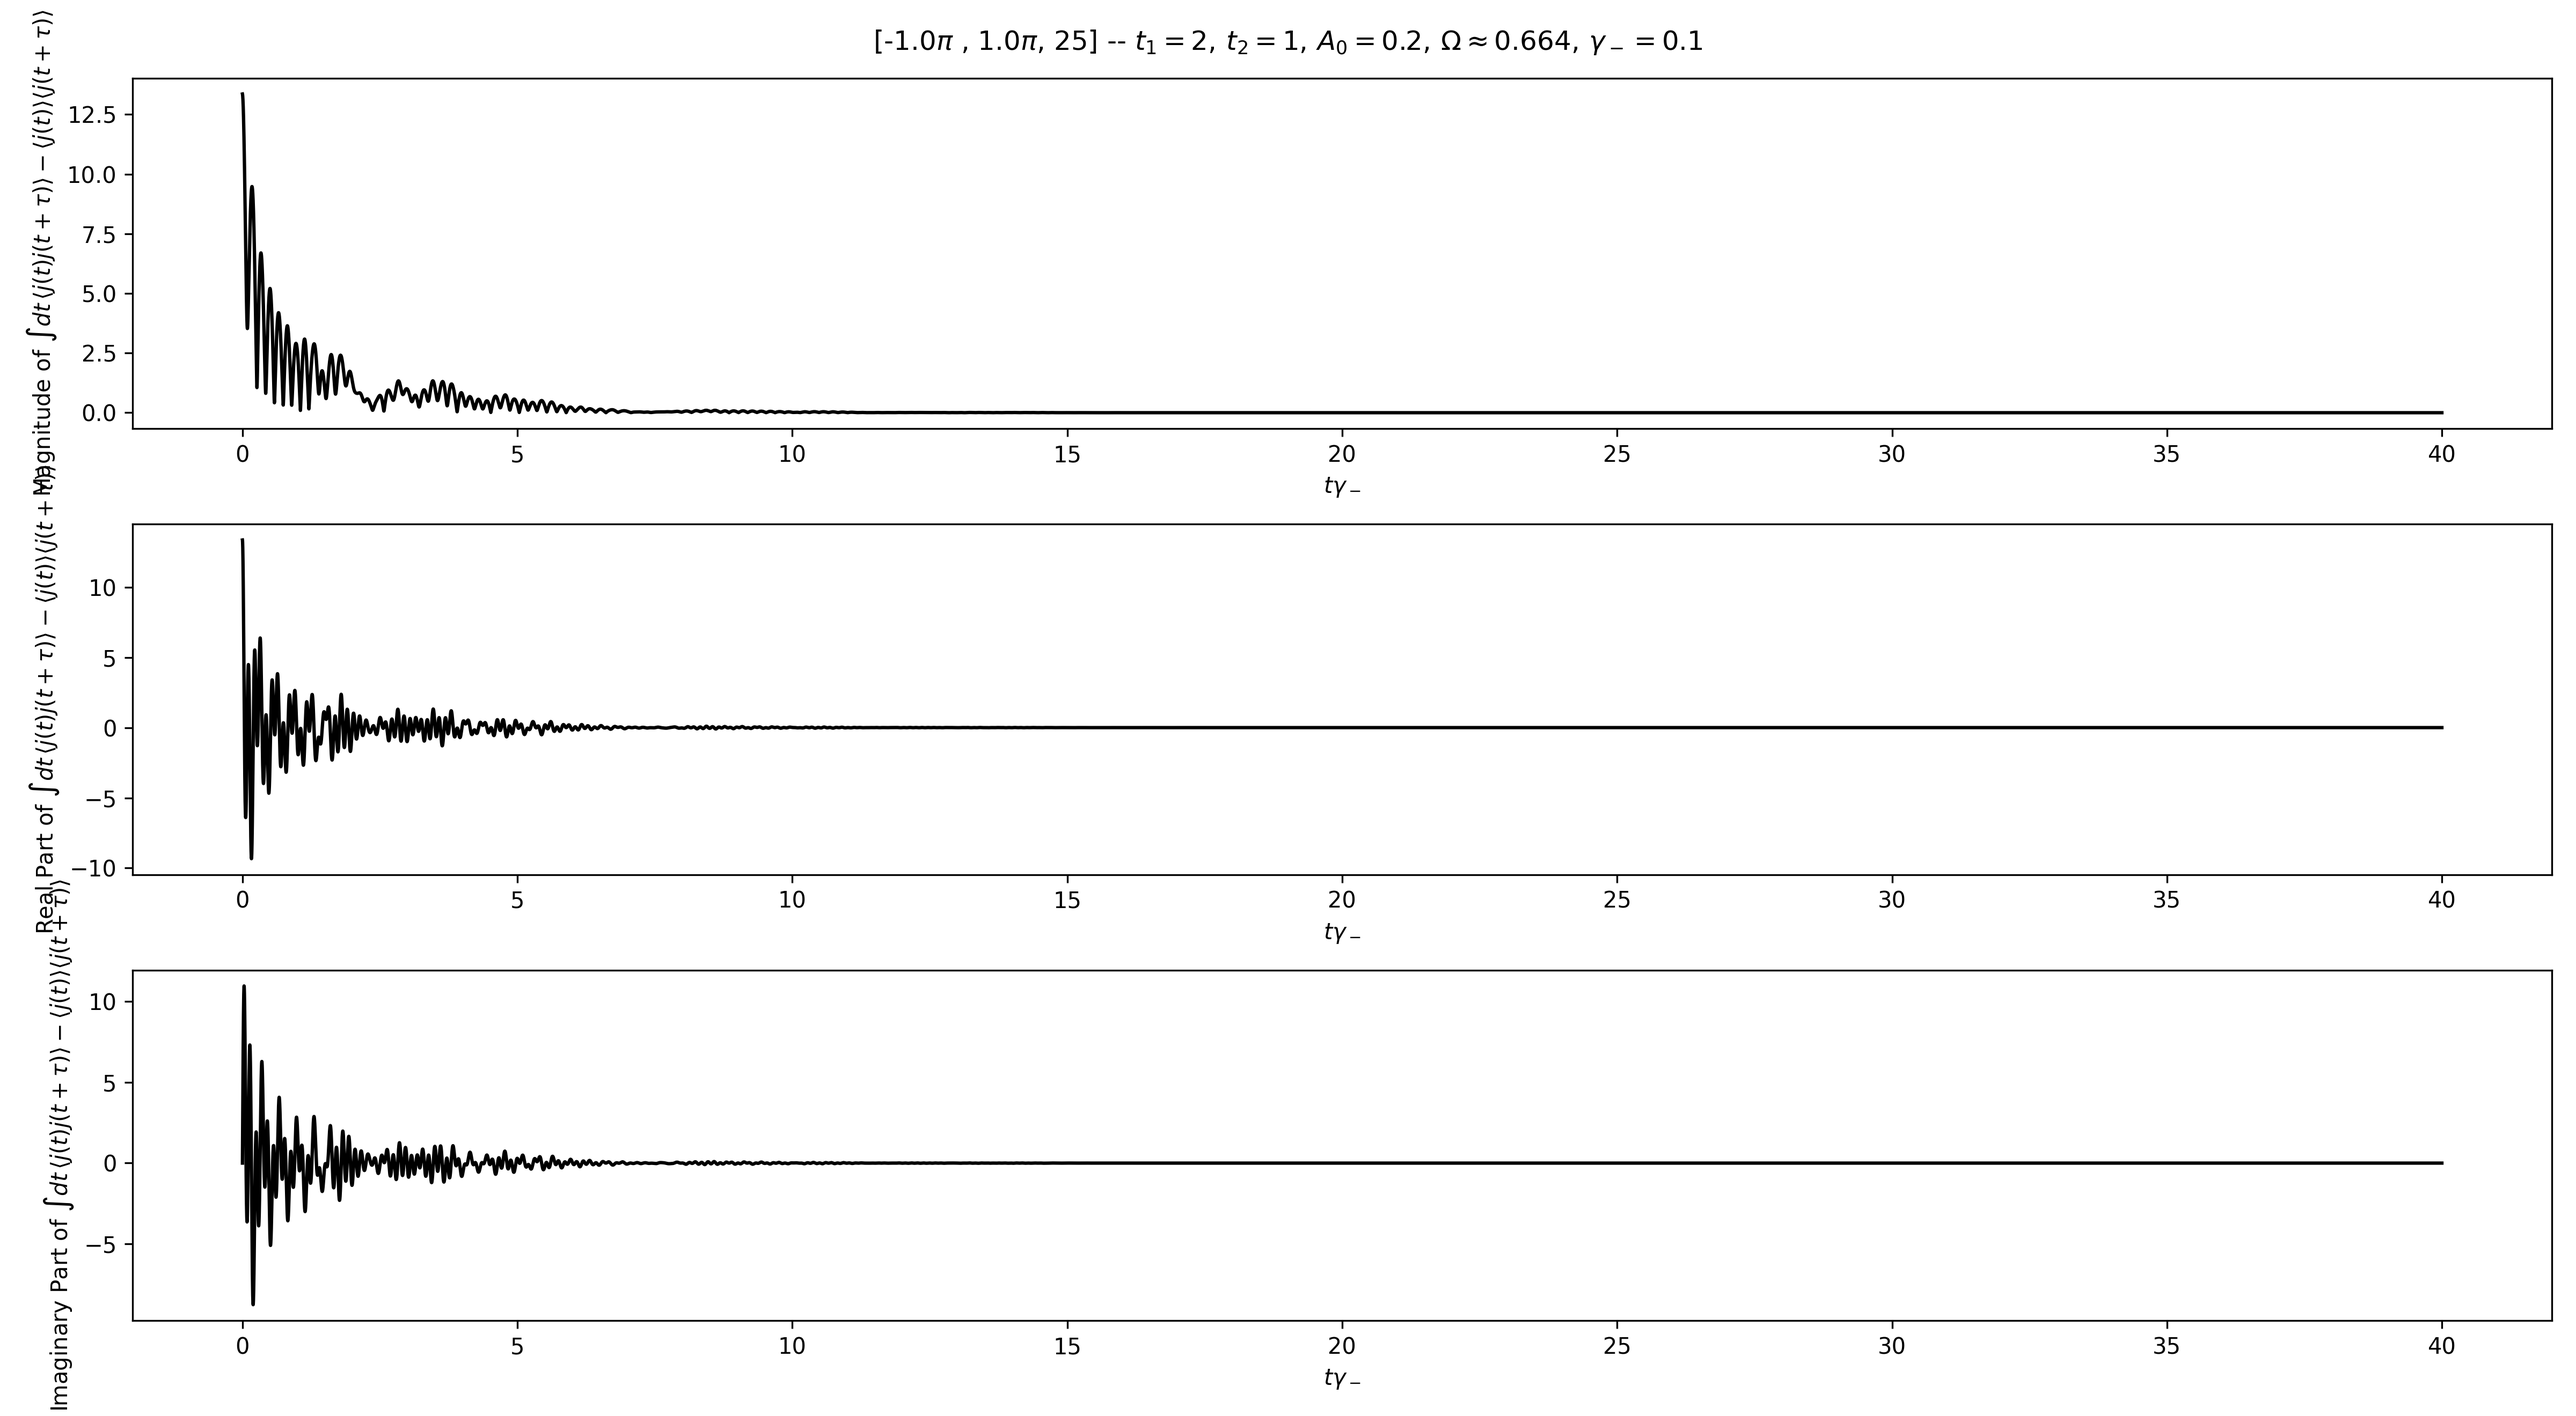
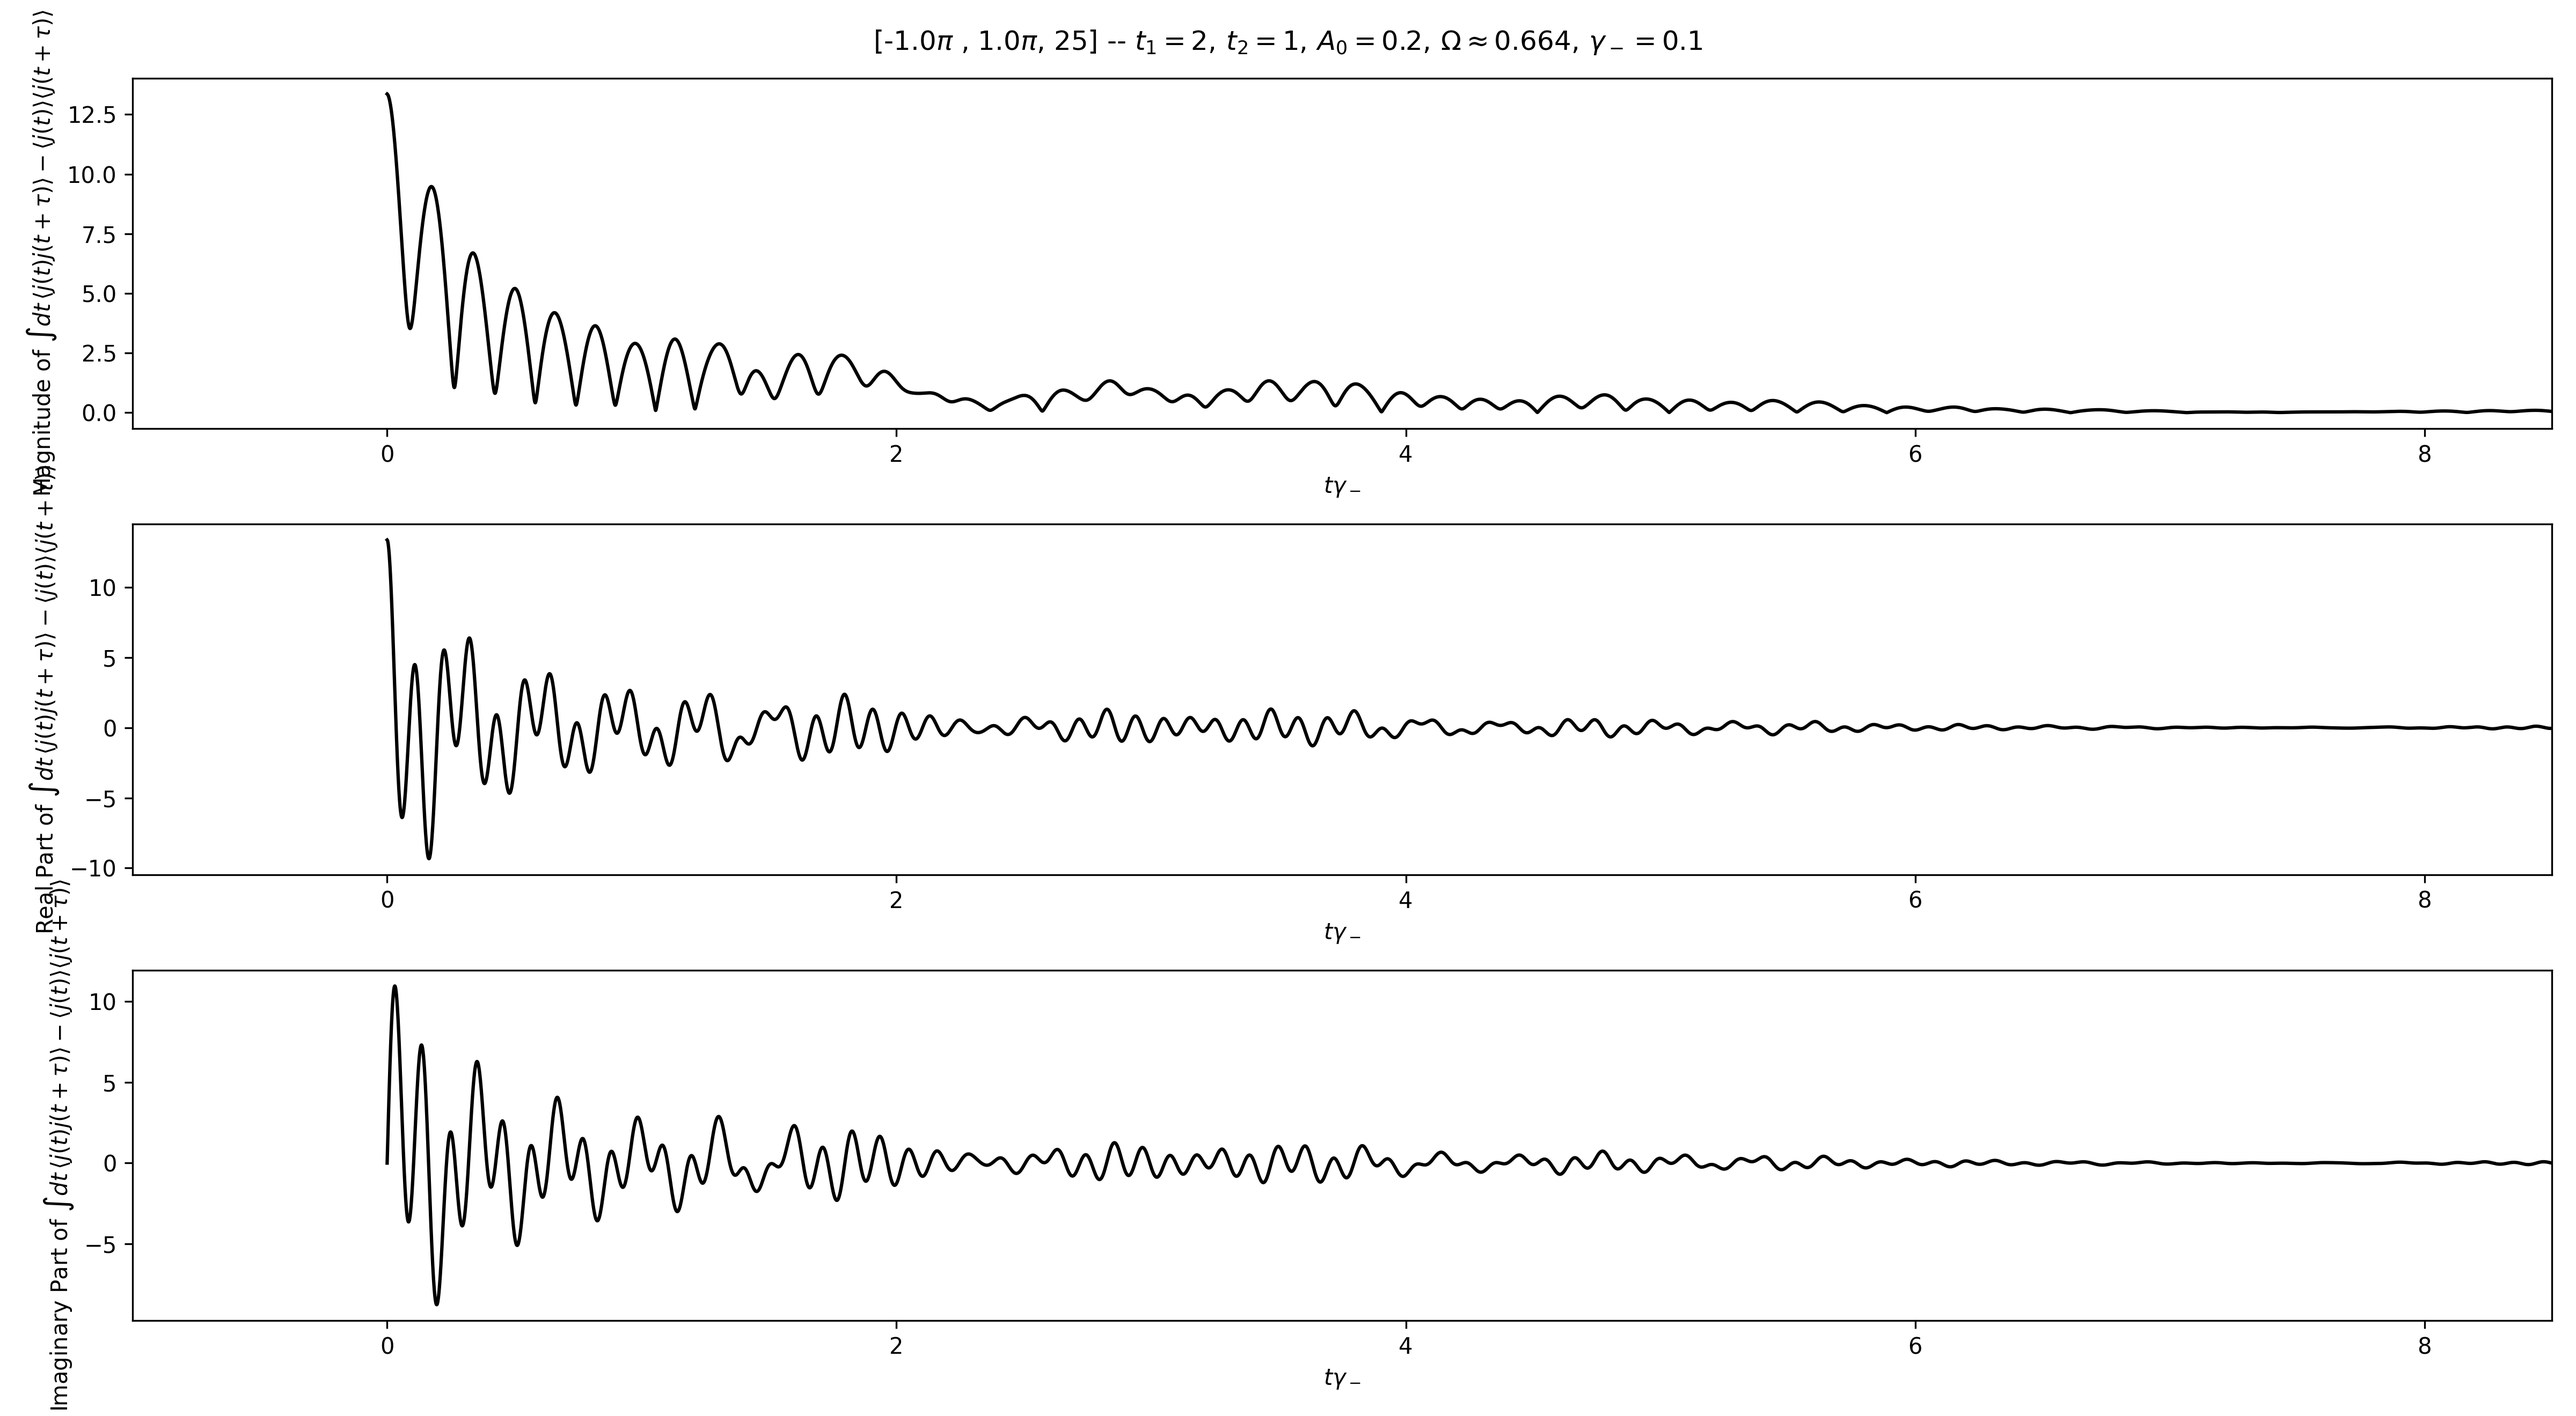
Compared my and Denis' plots, they seem to be matching but weird (though not wrong) for numK = 25, numT = 21. Separated denis' simulation and plotting code so that I could draw the plots (giving me ability to zoom in) without rerunning his code, even if its pretty fast.

diff --git a/denis-run.py b/denis-run.py
@@ -1,13 +1,11 @@
 from DenisSSHModel import One_D_SSH_Model
 import matplotlib.pyplot as plt
 import numpy as np
+import gzip
+import pickle
 
 numK, numT = 25, 21
 
-plt.style.use('stylesheet.mplstyle')
-plt.rcParams['text.usetex'] = False
-plottingFunctions = [lambda x: np.abs(x), lambda x: x.real, lambda x: x.imag]
-plottingPrefixes = ['Magnitude of', 'Real part of', 'Imaginary part of']
 
 ssh = One_D_SSH_Model(t_points = numT)
 final_corr = np.zeros((len(ssh.time_inf), len(ssh.time)), dtype=complex)
@@ -17,53 +15,9 @@ for i, k in enumerate(momentums):
     print(f"Calculating correlation for k = {k} ({i + 1} / {momentums.size})...")
     final_corr += ssh.correlator(k, order='reverse')
 
-    # nrows, ncols = 1, 2
-    # fig, ax = plt.subplots(nrows, ncols)
-
-    # for col in range(ncols):
-    #     mesh = ax[col].pcolormesh(ssh.time,
-    #                             ssh.time_inf,
-    #                             plottingFunctions[col](corr),
-    #                             cmap = 'bwr',
-    #                             shading = 'nearest')
-
-    #     ax[col].set_xlabel("tau")
-    #     ax[col].set_ylabel("t")
-    #     plt.colorbar(mesh, ax=ax[col])
-
-    # plt.tight_layout()
-    # # plt.show()
-    # plt.close()
-
 integratedcorr = ssh.integration_over_period(final_corr)
 
-nrows, ncols = 3, 1
-fig, ax = plt.subplots(nrows, ncols)
-
-for row in range(nrows):
-    ax[row].plot(ssh.time,
-                 plottingFunctions[row](integratedcorr),
-                 color = 'black')
-    ax[row].set_xlabel("tau")
-    ax[row].set_ylabel(f"{plottingPrefixes[row]} Connected Current Correlator")
-
-plt.plot(ssh.time, integratedcorr.imag, color='black')
-plt.tight_layout()
-plt.savefig(f"plots/numK: {numK}, numT: {numT}/Denis Connected Correlator.png", dpi=300)
-plt.show()
-plt.close()
-
-plt.figure()
-mask = ssh.time >= 60
-masked_time = ssh.time[mask]
-freqAxis = np.fft.fftshift(np.fft.fftfreq(masked_time.size, d=np.mean(np.diff(masked_time)))) / ssh.omega
-plt.semilogy(freqAxis, np.abs(np.fft.fftshift(np.fft.fft(integratedcorr[mask]))), color='black')
-
-# Adds dashed lines at the harmonics.       
-for n in range(-12, 13):
-    plt.axvline(n, color='blue', linestyle='dashed')
-
-plt.xlim(-12.5, 12.5)
-plt.savefig(f"plots/numK: {numK}, numT: {numT}/Denis FFT Connected Correlator.png", dpi=300)
-plt.show()
-plt.close()
+fileName = f"simulation-instances/[Denis] numK: {numK}, numT: {numT}.pkl.gz"
+with gzip.open(fileName, 'wb') as file:
+    pickle.dump(integratedcorr, file)
+print(f"Saved integrated correlator to {fileName}.")

diff --git a/1d-ssh-plotting.py b/1d-ssh-plotting.py
@@ -65,9 +65,9 @@ k = sim.momentums[2]
 
 vis.PlotIntegratedDoubleTimeCurrent(format='connected',
                                     saveFigs = True,
+                                    xLim = (-1, 8.5),
+                                    # yLim = (-2e-10, 2e-10),
                                     show = True
-                                    # xLim = (95, 100),
-                                    # yLim = (-2e-10, 2e-10)
                                     )
 
 # vis.PlotConnectedCurrentTerms(saveFigs = True,
@@ -75,10 +75,10 @@ vis.PlotIntegratedDoubleTimeCurrent(format='connected',
 #                               yLim = None
 #                               )
 
-vis.PlotConnectedCurrentFFT(saveFigs = True,
-                            show = True
-                            )
+# vis.PlotConnectedCurrentFFT(saveFigs = True,
+#                             show = True
+#                             )
 
-vis.PlotHarmonics(saveFigs = True,
-                  show = True
-                  )
+# vis.PlotHarmonics(saveFigs = True,
+#                   show = True
+#                   )
